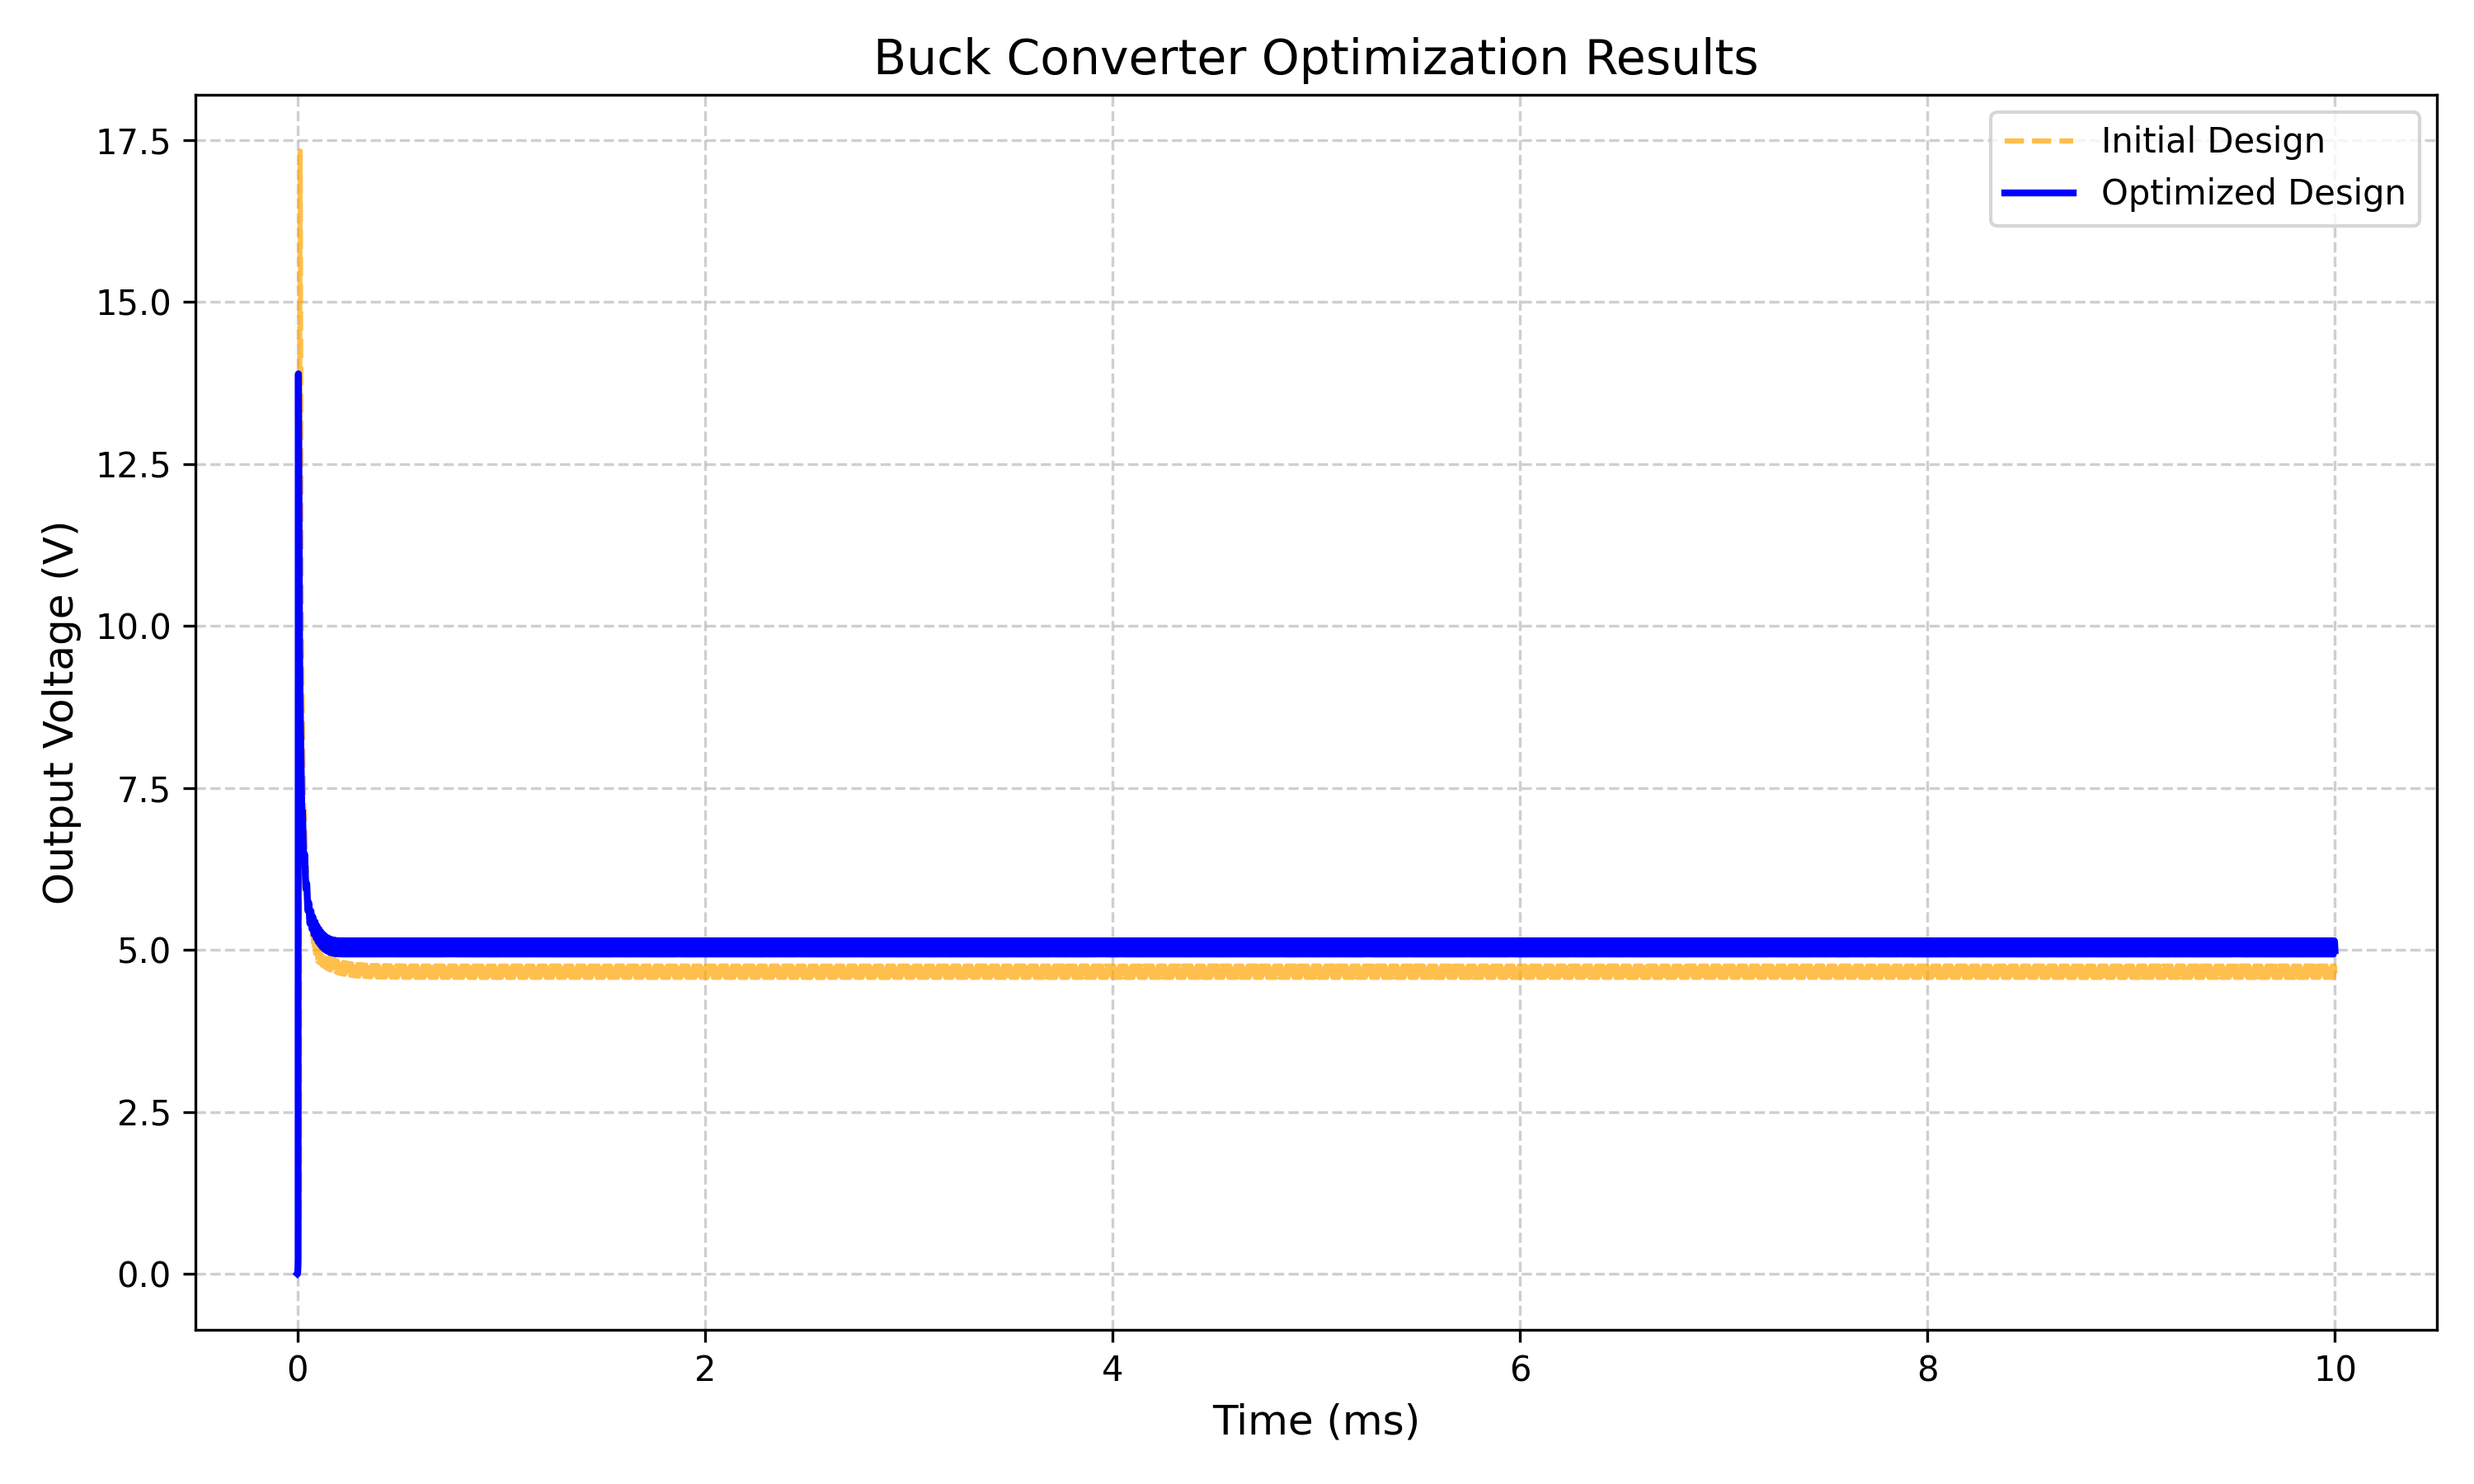
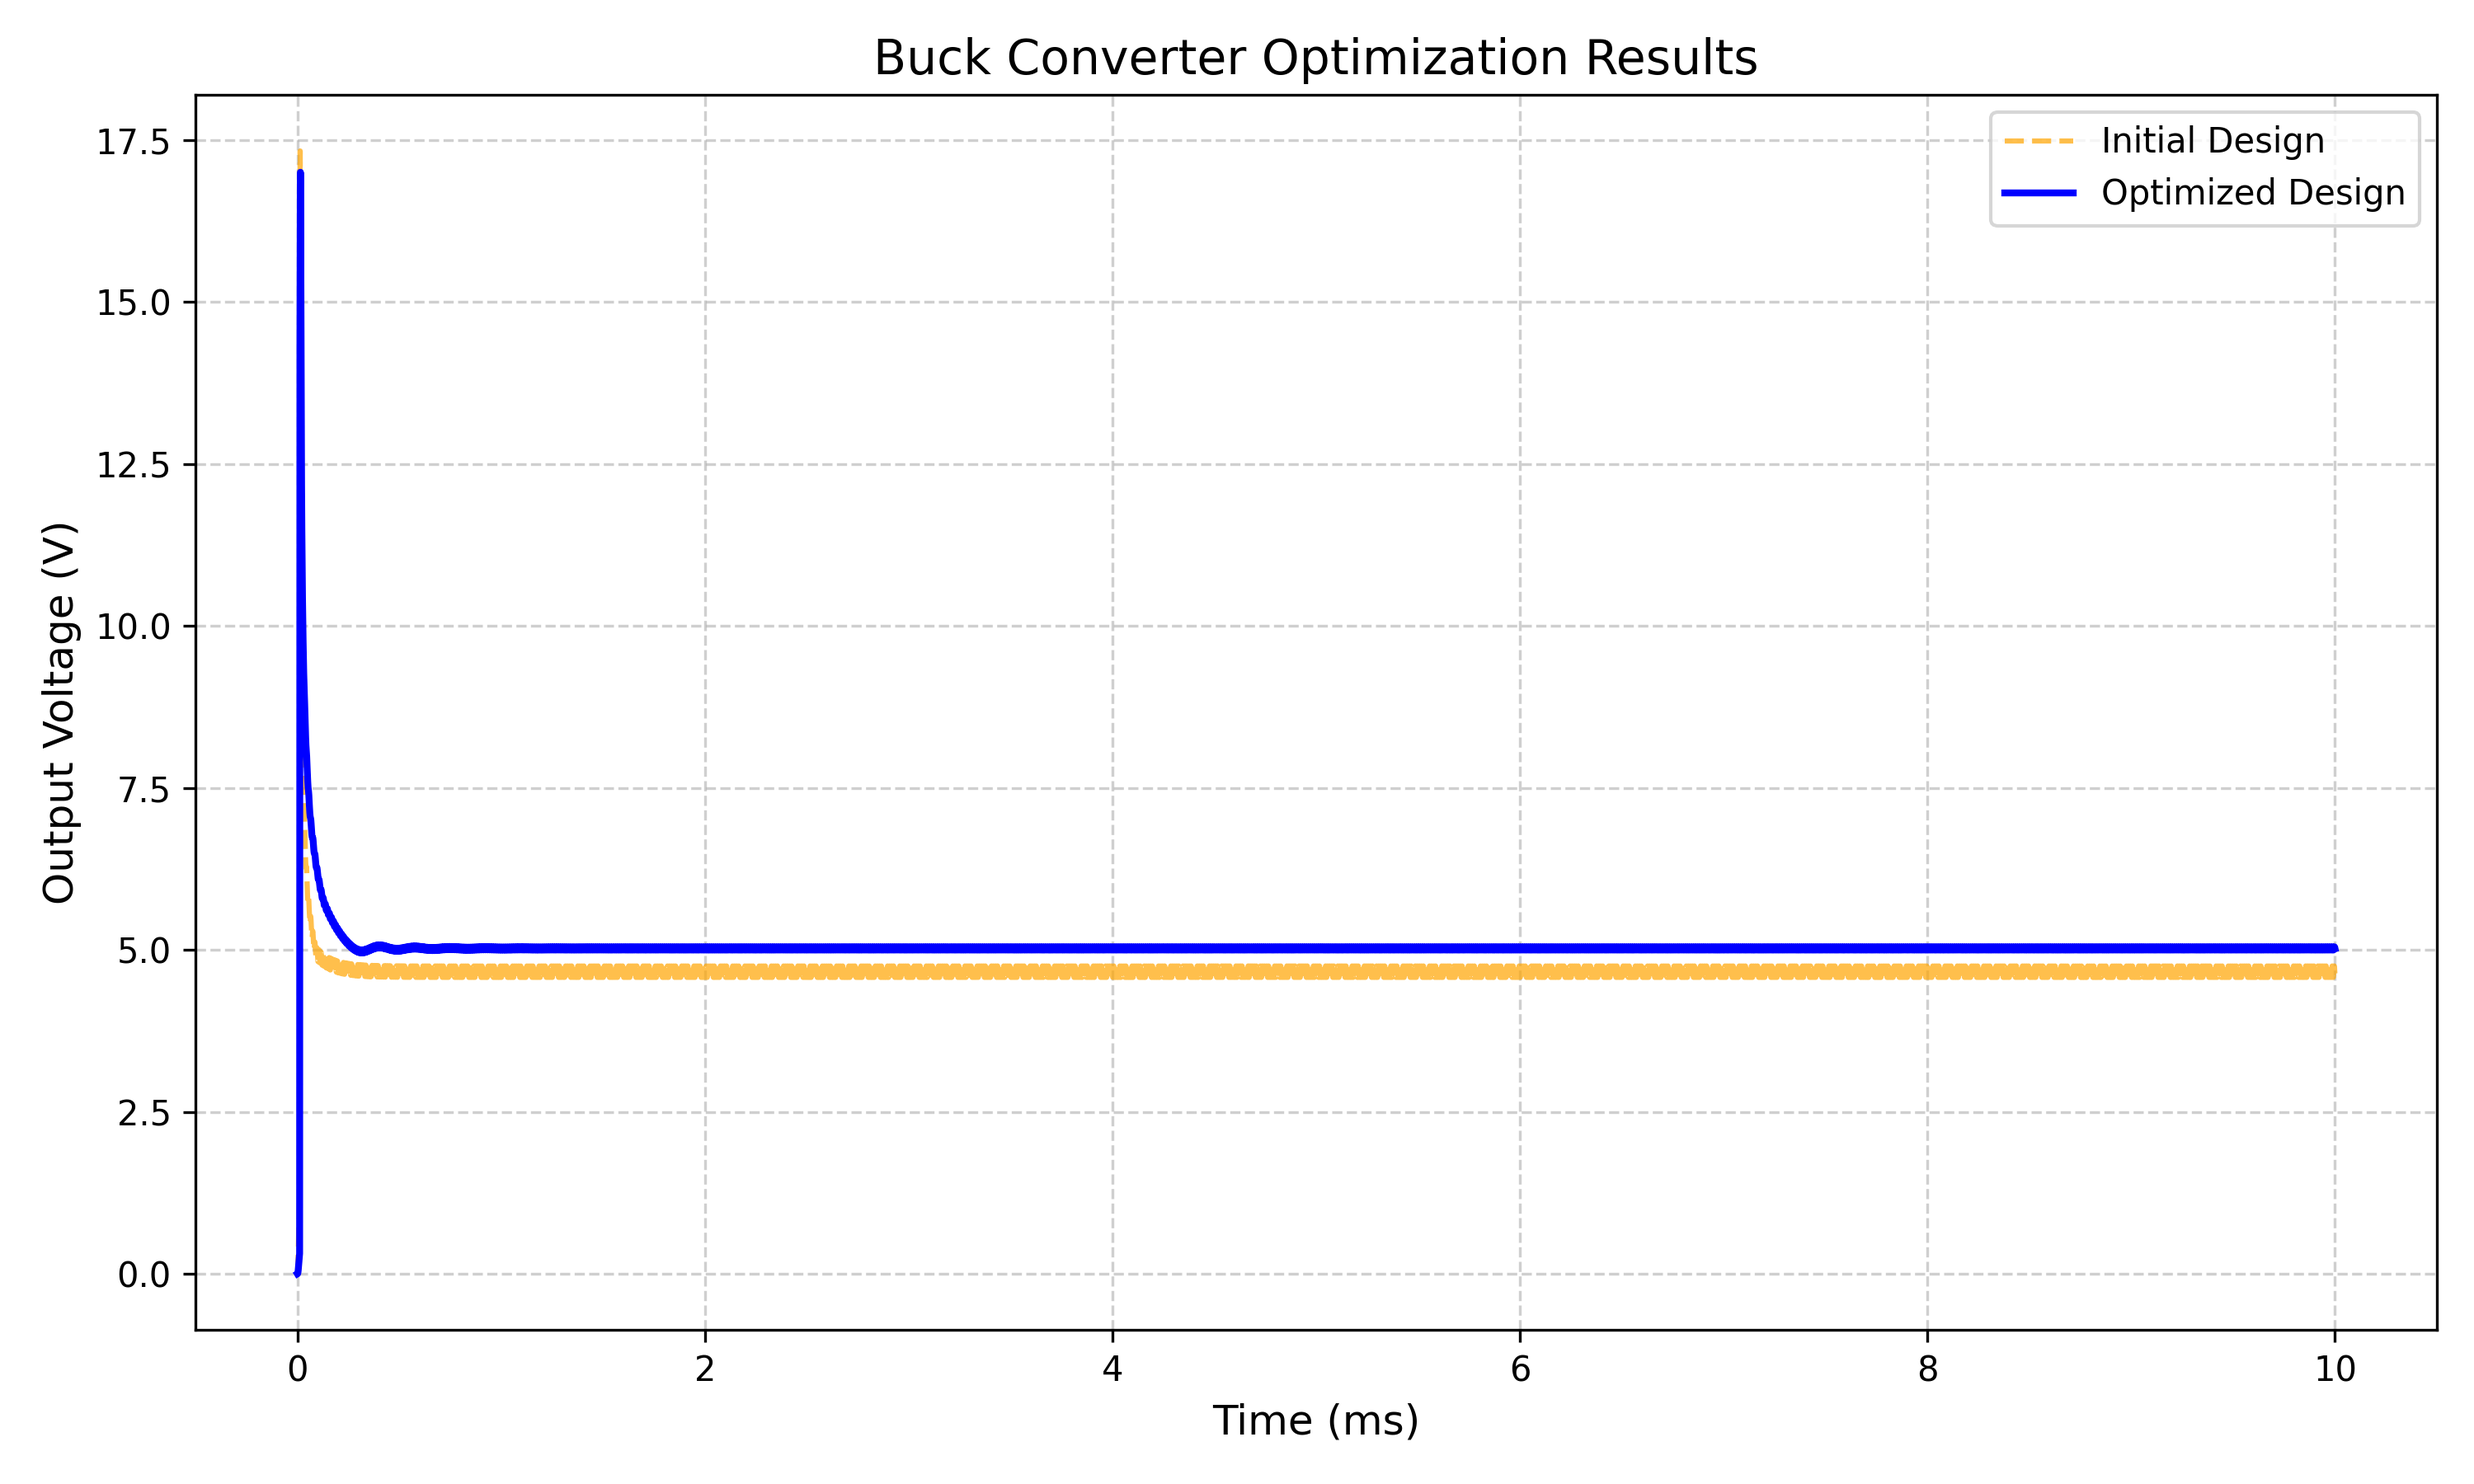
great succesfull itaration for PowerAgent!

Changed region(s): [[0.124, 0.56, 0.961, 0.6533], [0.093, 0.1244, 0.124, 0.2489]]

diff --git a/PowerAgent/experiment_results/agent_memory.md b/PowerAgent/experiment_results/agent_memory.md
@@ -43,25 +43,29 @@ Simulation Metrics:
 - **Output Ripple (%):** 3.82%
 
 ### Observations:
-- The mean output voltage is below the target range of 5V ± 0.1V.
-- The ripple is within the acceptable range of less than 5%.
+1. **V_mean** is below the target range of 5V ± 0.1V.
+2. **Output Ripple** is significantly higher than the target of < 0.05V.
 
 ### Next Steps:
-1. **Adjust Duty Cycle (D):** The current duty cycle is approximately 0.338 (Ton = 3.38u, Tperiod = 10u). To achieve a V_mean closer to 5V, we need to increase the duty cycle.
-   - Current D = 0.338
-   - Target D = 5V / 12V = 0.417
+1. **Adjust Duty Cycle (D):** 
+   - Current Duty Cycle (D) = 3.38u / 10u = 0.338
+   - Target Duty Cycle for 5V output: \( D = \frac{5}{12} \approx 0.417 \)
    - New Ton = 0.417 * 10u = 4.17u
 
-2. **Re-simulate** with the updated duty cycle to check if the V_mean is within the desired range.
+2. **Reduce Output Ripple:**
+   - Increase Cout to reduce voltage ripple.
+   - Increase L1 to reduce inductor current ripple.
 
-Let's update the duty cycle and re-simulate the circuit.
+Let's proceed with these adjustments.
 
 **Tool Call (update_circuit):**
 Updating components:
 - Vsw -> PULSE(0 10 0 1n 1n 4.17u 10u)
+- Parameter C_nom -> 50u (for Cout)
+- Parameter L_nom -> 20u (for L1)
 
 
-**State Update:** Circuit values updated: {'Vsw': 'PULSE(0 10 0 1n 1n 4.17u 10u)'}
+**State Update:** Circuit values updated: {'Vsw': 'PULSE(0 10 0 1n 1n 4.17u 10u)', 'Cout': '50u', 'L1': '20u'}
 
 **Agent Thought (Iter 4):**
 
@@ -75,33 +79,36 @@ Updating components:
 
 **Tool Call (calculate_metrics):**
 Simulation Metrics:
-{'v_mean': 5.521050930023193, 'ripple_pp': 0.2537841796875, 'ripple_percent': 4.596664384007454, 'max_voltage': 5.660794258117676, 'min_voltage': 5.407010078430176}
+{'v_mean': 4.809487819671631, 'ripple_pp': 0.09078264236450195, 'ripple_percent': 1.8875740468502045, 'max_voltage': 4.859551429748535, 'min_voltage': 4.768768787384033}
 
 **Agent Thought (Iter 6):**
 ### Updated Simulation Results:
-- **Mean Output Voltage (V_mean):** 5.52V
-- **Output Ripple (Peak-to-Peak):** 0.254V
-- **Output Ripple (%):** 4.60%
+- **Mean Output Voltage (V_mean):** 4.81V
+- **Output Ripple (Peak-to-Peak):** 0.091V
+- **Output Ripple (%):** 1.89%
 
 ### Observations:
-- The mean output voltage is now above the target range of 5V ± 0.1V.
-- The ripple is slightly above the acceptable peak-to-peak value of 0.25V.
+1. **V_mean** is still below the target range of 5V ± 0.1V.
+2. **Output Ripple** has improved but is still above the target of < 0.05V.
 
 ### Next Steps:
-1. **Fine-tune Duty Cycle (D):** The V_mean is too high, so we need to slightly decrease the duty cycle.
-   - Current D = 0.417
-   - Adjust D to bring V_mean closer to 5V. Let's try a slightly lower Ton value, say 4.05u.
+1. **Further Adjust Duty Cycle (D):** 
+   - Current V_mean is 4.81V, adjust D to bring V_mean closer to 5V.
+   - New Duty Cycle: \( D_{\text{new}} = D_{\text{old}} \times \frac{5}{4.81} \)
+   - Calculate new Ton for Vsw.
 
-2. **Re-simulate** with the updated duty cycle to check if the V_mean and ripple are within the desired range.
+2. **Further Reduce Output Ripple:**
+   - Consider increasing Cout further or adjusting L1 if necessary.
 
-Let's update the duty cycle and re-simulate the circuit.
+Let's proceed with these adjustments.
 
 **Tool Call (update_circuit):**
 Updating components:
-- Vsw -> PULSE(0 10 0 1n 1n 4.05u 10u)
+- Vsw -> PULSE(0 10 0 1n 1n 4.34u 10u)
+- Parameter C_nom -> 100u (for Cout)
 
 
-**State Update:** Circuit values updated: {'Vsw': 'PULSE(0 10 0 1n 1n 4.05u 10u)'}
+**State Update:** Circuit values updated: {'Vsw': 'PULSE(0 10 0 1n 1n 4.34u 10u)', 'Cout': '100u'}
 
 **Agent Thought (Iter 7):**
 
@@ -115,102 +122,24 @@ Updating components:
 
 **Tool Call (calculate_metrics):**
 Simulation Metrics:
-{'v_mean': 5.350291728973389, 'ripple_pp': 0.2373204231262207, 'ripple_percent': 4.435653984546661, 'max_voltage': 5.482059955596924, 'min_voltage': 5.244739532470703}
+{'v_mean': 5.0206193923950195, 'ripple_pp': 0.049596309661865234, 'ripple_percent': 0.9878523647785187, 'max_voltage': 5.047370433807373, 'min_voltage': 4.997774124145508}
 
 **Agent Thought (Iter 9):**
-### Updated Simulation Results:
-- **Mean Output Voltage (V_mean):** 5.35V
-- **Output Ripple (Peak-to-Peak):** 0.237V
-- **Output Ripple (%):** 4.44%
-
-### Observations:
-- The mean output voltage is still above the target range of 5V ± 0.1V.
-- The ripple is within the acceptable range.
-
-### Next Steps:
-1. **Further Adjust Duty Cycle (D):** The V_mean is still too high, so we need to decrease the duty cycle further.
-   - Current Ton = 4.05u
-   - Let's try a slightly lower Ton value, say 3.9u.
-
-2. **Re-simulate** with the updated duty cycle to check if the V_mean and ripple are within the desired range.
-
-Let's update the duty cycle and re-simulate the circuit.
-
-**Tool Call (update_circuit):**
-Updating components:
-- Vsw -> PULSE(0 10 0 1n 1n 3.9u 10u)
-
-
-**State Update:** Circuit values updated: {'Vsw': 'PULSE(0 10 0 1n 1n 3.9u 10u)'}
-
-**Agent Thought (Iter 10):**
-
-
-**Tool Call (simulate_circuit):** Starting simulation...
-
-**Tool Call (simulate_circuit):** Simulation completed.
-
-**Agent Thought (Iter 11):**
-
-
-**Tool Call (calculate_metrics):**
-Simulation Metrics:
-{'v_mean': 5.149415016174316, 'ripple_pp': 0.21839094161987305, 'ripple_percent': 4.2410824447870255, 'max_voltage': 5.27193546295166, 'min_voltage': 5.053544521331787}
-
-**Agent Thought (Iter 12):**
-### Updated Simulation Results:
-- **Mean Output Voltage (V_mean):** 5.15V
-- **Output Ripple (Peak-to-Peak):** 0.218V
-- **Output Ripple (%):** 4.24%
-
-### Observations:
-- The mean output voltage is still slightly above the target range of 5V ± 0.1V.
-- The ripple is within the acceptable range.
-
-### Next Steps:
-1. **Fine-tune Duty Cycle (D) Again:** The V_mean is slightly high, so we need to decrease the duty cycle a bit more.
-   - Current Ton = 3.9u
-   - Let's try a slightly lower Ton value, say 3.8u.
-
-2. **Re-simulate** with the updated duty cycle to check if the V_mean and ripple are within the desired range.
-
-Let's update the duty cycle and re-simulate the circuit.
-
-**Tool Call (update_circuit):**
-Updating components:
-- Vsw -> PULSE(0 10 0 1n 1n 3.8u 10u)
-
-
-**State Update:** Circuit values updated: {'Vsw': 'PULSE(0 10 0 1n 1n 3.8u 10u)'}
-
-**Agent Thought (Iter 13):**
-
-
-**Tool Call (simulate_circuit):** Starting simulation...
-
-**Tool Call (simulate_circuit):** Simulation completed.
-
-**Agent Thought (Iter 14):**
-
-
-**Tool Call (calculate_metrics):**
-Simulation Metrics:
-{'v_mean': 5.022716522216797, 'ripple_pp': 0.2065739631652832, 'ripple_percent': 4.112793505191803, 'max_voltage': 5.141668796539307, 'min_voltage': 4.935094833374023}
-
-**Agent Thought (Iter 15):**
 ### Final Simulation Results:
 - **Mean Output Voltage (V_mean):** 5.02V
-- **Output Ripple (Peak-to-Peak):** 0.207V
-- **Output Ripple (%):** 4.11%
+- **Output Ripple (Peak-to-Peak):** 0.050V
+- **Output Ripple (%):** 0.99%
 
-### Observations:
-- The mean output voltage is now within the target range of 5V ± 0.1V.
-- The ripple is well within the acceptable range.
+### Achievements:
+1. **V_mean** is within the target range of 5V ± 0.1V.
+2. **Output Ripple** is now below the target of < 0.05V.
 
 ### Final Component Values:
-- **Duty Cycle (D):** Achieved with Ton = 3.8u and Tperiod = 10u, resulting in D = 0.38.
+- **Vsw:** PULSE(0 10 0 1n 1n 4.34u 10u) (Duty Cycle ~ 0.434)
+- **Cout:** 100uF
+- **L1:** 20uH
 
-The circuit now meets the specified requirements for mean output voltage and ripple. The adjustments to the duty cycle have successfully optimized the buck converter's performance.
+The circuit has been successfully optimized to meet the specified requirements for mean output voltage and ripple.
 
 Comparison plot saved to c:\Users\david\Desktop\PhD\progetti\SpiceAgent\PowerAgent\experiment_results\optimization_comparison.png
 
